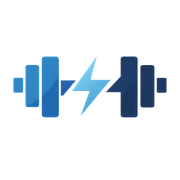
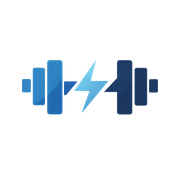
Fix 5 user-reported issues
1. Replace cartoonish body SVG with anatomical figure in MuscleMap
   - Better proportions, muscle definition lines, subtle shading
2. Fix whey protein double-counting: remove supplement auto-add from
   sumMealsProp (whey already exists as a meal in the daily plan)
3. Remove Nutrición section from Hoy tab (redundant with Comidas tab)
4. Enlarge PWA icons: logo now fills ~78% of canvas (was ~50%)
5. Fix greeting card: now a proper rounded card with mx-5 margins and
   marginBottom spacing, no longer edge-to-edge background bleeding

Changed region(s): [[0.0556, 0.3056, 0.9444, 0.6667], [0.4722, 0.5833, 0.5, 0.6111], [0.4444, 0.6111, 0.4722, 0.6389]]

diff --git a/index.html b/index.html
@@ -930,14 +930,6 @@ function formatWeight(val, unit) {
 function sumMealsProp(meals, prop) {
   let total = 0;
   meals.forEach(m => { if (m.confirmed) m.items.forEach(i => { total += (i[prop] || 0); }); });
-  // Add whey supplement if taken today
-  const date = new Date().toISOString().slice(0, 10);
-  try {
-    if (localStorage.getItem('ds_whey_' + date) === 'true') {
-      if (prop === 'protein') total += 27;
-      if (prop === 'cal') total += 130;
-    }
-  } catch {}
   return total;
 }
 
@@ -3433,69 +3425,106 @@ function MuscleMap() {
       <${SectionHeader} title=${t("Músculos esta semana")} />
       <div className="flex gap-4" style=${{ alignItems: 'flex-start' }}>
         <!-- SVG Body -->
-        <div className="flex-shrink-0 flex justify-center" style=${{ width: 130 }}>
-          <svg width="130" height="220" viewBox="0 0 200 340" fill="none">
-            <!-- Base body silhouette -->
-            <g fill=${bodyFill} stroke="none">
-              <ellipse cx="100" cy="30" rx="18" ry="22"/>
-              <rect x="91" y="50" width="18" height="14" rx="4"/>
-              <path d="M70,64 Q60,66 56,72 L50,80 Q46,86 46,96 L46,120 Q46,130 48,140 L50,158 Q52,168 56,174 L62,180 Q66,184 70,186 L72,188 Q80,192 88,194 L100,196 L112,194 Q120,192 128,188 L130,186 Q134,184 138,180 L144,174 Q148,168 150,158 L152,140 Q154,130 154,120 L154,96 Q154,86 150,80 L144,72 Q140,66 130,64 Z"/>
-              <path d="M56,72 Q48,74 44,80 L38,96 Q34,106 32,116 L30,130 Q30,134 32,136 L38,138 Q42,138 44,134 L46,120 L46,96 Z"/>
-              <path d="M32,136 Q30,142 28,152 L26,166 Q24,176 24,184 L22,196 Q22,200 24,202 L28,204 Q32,204 34,200 L36,188 Q38,178 38,168 L38,152 L38,138 Z"/>
-              <path d="M24,202 Q22,208 20,214 Q18,220 20,222 Q22,224 26,222 L30,216 Q32,210 34,204 Z"/>
-              <path d="M144,72 Q152,74 156,80 L162,96 Q166,106 168,116 L170,130 Q170,134 168,136 L162,138 Q158,138 156,134 L154,120 L154,96 Z"/>
-              <path d="M168,136 Q170,142 172,152 L174,166 Q176,176 176,184 L178,196 Q178,200 176,202 L172,204 Q168,204 166,200 L164,188 Q162,178 162,168 L162,152 L162,138 Z"/>
-              <path d="M176,202 Q178,208 180,214 Q182,220 180,222 Q178,224 174,222 L170,216 Q168,210 166,204 Z"/>
-              <path d="M72,188 Q68,192 66,198 L62,218 Q60,232 58,246 L56,262 Q56,268 60,270 L68,272 Q76,272 80,268 L84,252 Q88,236 90,220 L92,200 Q92,196 90,194 Z"/>
-              <path d="M128,188 Q132,192 134,198 L138,218 Q140,232 142,246 L144,262 Q144,268 140,270 L132,272 Q124,272 120,268 L116,252 Q112,236 110,220 L108,200 Q108,196 110,194 Z"/>
-              <path d="M60,270 Q58,278 56,290 L54,306 Q54,316 56,324 L58,330 Q60,334 64,334 L72,334 Q76,334 76,330 L76,318 Q76,308 74,296 L72,282 Q70,274 68,270 Z"/>
-              <path d="M58,330 Q54,334 50,336 Q46,338 46,336 L48,332 Q52,330 58,330 Z M64,334 L72,334 Q76,338 72,340 L60,340 Q56,338 60,336 Z"/>
-              <path d="M140,270 Q142,278 144,290 L146,306 Q146,316 144,324 L142,330 Q140,334 136,334 L128,334 Q124,334 124,330 L124,318 Q124,308 126,296 L128,282 Q130,274 132,270 Z"/>
-              <path d="M142,330 Q146,334 150,336 Q154,338 154,336 L152,332 Q148,330 142,330 Z M136,334 L128,334 Q124,338 128,340 L140,340 Q144,338 140,336 Z"/>
+        <div className="flex-shrink-0 flex justify-center" style=${{ width: 120 }}>
+          <svg width="120" height="260" viewBox="0 0 120 260" fill="none">
+            <defs>
+              <linearGradient id="bodyGrad" x1="60" y1="0" x2="60" y2="260" gradientUnits="userSpaceOnUse">
+                <stop offset="0%" stop-color=${bodyFill} />
+                <stop offset="100%" stop-color=${bodyFill} />
+              </linearGradient>
+              <linearGradient id="bodyShade" x1="40" y1="0" x2="80" y2="260" gradientUnits="userSpaceOnUse">
+                <stop offset="0%" stop-color="#000" stop-opacity="0.04"/>
+                <stop offset="50%" stop-color="#000" stop-opacity="0.08"/>
+                <stop offset="100%" stop-color="#000" stop-opacity="0.03"/>
+              </linearGradient>
+            </defs>
+            <!-- Anatomical body silhouette -->
+            <g fill="url(#bodyGrad)" stroke="none">
+              <!-- Head -->
+              <ellipse cx="60" cy="16" rx="11" ry="14"/>
+              <!-- Neck -->
+              <path d="M54,29 C54,32 53,35 52,37 L68,37 C67,35 66,32 66,29 Z"/>
+              <!-- Torso -->
+              <path d="M40,39 C35,40 30,44 28,50 L25,60 C23,68 23,78 24,88 L25,98 C26,108 28,115 30,120 L34,130 C36,135 38,138 42,142 L46,146 C48,148 52,152 55,154 L60,156 L65,154 C68,152 72,148 74,146 L78,142 C82,138 84,135 86,130 L90,120 C92,115 94,108 95,98 L96,88 C97,78 97,68 95,60 L92,50 C90,44 85,40 80,39 Z"/>
+              <!-- Left shoulder+arm -->
+              <path d="M40,39 C34,40 28,44 24,50 L19,60 C16,68 15,75 16,82 L18,92 C19,98 21,102 22,104 L24,102 C24,96 25,88 26,80 L28,68 C29,62 32,55 36,48 Z"/>
+              <path d="M16,82 C14,88 13,96 13,104 L14,116 C14,122 15,126 16,128 L19,128 C20,124 20,118 20,110 L19,96 C18,90 17,86 16,82 Z"/>
+              <path d="M16,128 C15,134 14,140 14,146 L14,156 C14,160 15,162 17,163 L19,162 C19,158 19,152 19,144 L19,136 C19,132 19,130 19,128 Z"/>
+              <!-- Left hand -->
+              <path d="M14,156 C13,160 12,164 12,167 C12,170 13,171 15,171 L18,170 C19,168 19,165 19,162 Z"/>
+              <!-- Right shoulder+arm -->
+              <path d="M80,39 C86,40 92,44 96,50 L101,60 C104,68 105,75 104,82 L102,92 C101,98 99,102 98,104 L96,102 C96,96 95,88 94,80 L92,68 C91,62 88,55 84,48 Z"/>
+              <path d="M104,82 C106,88 107,96 107,104 L106,116 C106,122 105,126 104,128 L101,128 C100,124 100,118 100,110 L101,96 C102,90 103,86 104,82 Z"/>
+              <path d="M104,128 C105,134 106,140 106,146 L106,156 C106,160 105,162 103,163 L101,162 C101,158 101,152 101,144 L101,136 C101,132 101,130 101,128 Z"/>
+              <!-- Right hand -->
+              <path d="M106,156 C107,160 108,164 108,167 C108,170 107,171 105,171 L102,170 C101,168 101,165 101,162 Z"/>
+              <!-- Left leg -->
+              <path d="M46,146 C44,150 42,156 40,164 L38,176 C36,188 35,198 34,208 L33,218 C33,224 34,228 35,232 L37,234 C39,232 41,228 42,222 L44,210 C46,198 48,188 50,180 L52,172 C54,166 56,162 58,158 Z"/>
+              <!-- Left calf+foot -->
+              <path d="M35,232 C34,238 33,244 33,248 L34,252 C34,254 35,256 37,256 L44,256 C46,256 47,255 47,253 L47,250 C46,246 44,240 42,234 Z"/>
+              <!-- Right leg -->
+              <path d="M74,146 C76,150 78,156 80,164 L82,176 C84,188 85,198 86,208 L87,218 C87,224 86,228 85,232 L83,234 C81,232 79,228 78,222 L76,210 C74,198 72,188 70,180 L68,172 C66,166 64,162 62,158 Z"/>
+              <!-- Right calf+foot -->
+              <path d="M85,232 C86,238 87,244 87,248 L86,252 C86,254 85,256 83,256 L76,256 C74,256 73,255 73,253 L73,250 C74,246 76,240 78,234 Z"/>
             </g>
-            <!-- Muscle overlays -->
+            <!-- Subtle shading overlay -->
+            <g fill="url(#bodyShade)">
+              <ellipse cx="60" cy="16" rx="11" ry="14"/>
+              <path d="M40,39 C35,40 30,44 28,50 L25,60 C23,68 23,78 24,88 L25,98 C26,108 28,115 30,120 L34,130 C36,135 38,138 42,142 L46,146 C48,148 52,152 55,154 L60,156 L65,154 C68,152 72,148 74,146 L78,142 C82,138 84,135 86,130 L90,120 C92,115 94,108 95,98 L96,88 C97,78 97,68 95,60 L92,50 C90,44 85,40 80,39 Z"/>
+            </g>
+            <!-- Muscle definition lines -->
+            <g fill="none" stroke=${T.border} stroke-width="0.5" opacity="0.5">
+              <path d="M60,37 L60,68"/>
+              <path d="M48,60 C52,66 56,68 60,68 C64,68 68,66 72,60"/>
+              <path d="M50,75 C54,80 56,82 60,82 C64,82 66,80 70,75"/>
+              <line x1="60" y1="82" x2="60" y2="154"/>
+              <path d="M46,100 C50,104 55,106 60,106 C65,106 70,104 74,100"/>
+              <path d="M48,115 C52,118 56,120 60,120 C64,120 68,118 72,115"/>
+            </g>
+            <!-- MUSCLE OVERLAYS -->
             <g fill=${accentFill} style=${{ transition: 'opacity 0.5s ease' }} opacity=${getOpacity('pecho')}>
-              <path d="M72,76 Q68,78 66,82 L64,90 Q62,96 64,100 L72,104 Q82,108 92,106 L98,102 L98,82 Q98,76 92,74 Z"/>
-              <path d="M128,76 Q132,78 134,82 L136,90 Q138,96 136,100 L128,104 Q118,108 108,106 L102,102 L102,82 Q102,76 108,74 Z"/>
+              <path d="M42,52 C40,56 40,62 42,66 C46,72 54,74 60,72 L60,52 C54,50 48,50 42,52 Z"/>
+              <path d="M78,52 C80,56 80,62 78,66 C74,72 66,74 60,72 L60,52 C66,50 72,50 78,52 Z"/>
             </g>
             <g fill=${accentFill} style=${{ transition: 'opacity 0.5s ease' }} opacity=${getOpacity('hombros')}>
-              <path d="M70,64 Q60,66 54,72 L48,82 Q46,88 48,90 L54,88 Q58,82 62,78 L68,74 Q72,72 72,70 Z"/>
-              <path d="M130,64 Q140,66 146,72 L152,82 Q154,88 152,90 L146,88 Q142,82 138,78 L132,74 Q128,72 128,70 Z"/>
+              <path d="M40,39 C34,40 28,44 24,50 L22,56 C24,54 28,50 34,46 C38,43 40,41 42,40 Z"/>
+              <path d="M80,39 C86,40 92,44 96,50 L98,56 C96,54 92,50 86,46 C82,43 80,41 78,40 Z"/>
             </g>
             <g fill=${accentFill} style=${{ transition: 'opacity 0.5s ease' }} opacity=${getOpacity('biceps')}>
-              <path d="M46,96 Q42,100 40,108 L38,118 Q36,126 38,130 L42,132 Q46,132 46,126 L46,112 L48,100 Z"/>
-              <path d="M154,96 Q158,100 160,108 L162,118 Q164,126 162,130 L158,132 Q154,132 154,126 L154,112 L152,100 Z"/>
+              <path d="M24,62 C22,68 20,76 18,84 L16,82 C16,76 17,68 20,60 C22,56 24,54 26,56 Z"/>
+              <path d="M96,62 C98,68 100,76 102,84 L104,82 C104,76 103,68 100,60 C98,56 96,54 94,56 Z"/>
             </g>
             <g fill=${accentFill} style=${{ transition: 'opacity 0.5s ease' }} opacity=${getOpacity('triceps')}>
-              <path d="M38,96 Q34,104 32,114 L30,126 Q30,132 32,134 L36,132 Q38,128 38,122 L38,108 Z"/>
-              <path d="M162,96 Q166,104 168,114 L170,126 Q170,132 168,134 L164,132 Q162,128 162,122 L162,108 Z"/>
+              <path d="M18,84 C17,90 16,96 15,104 L14,112 C14,118 15,122 16,124 L19,124 C19,118 19,110 19,102 L20,92 Z"/>
+              <path d="M102,84 C103,90 104,96 105,104 L106,112 C106,118 105,122 104,124 L101,124 C101,118 101,110 101,102 L100,92 Z"/>
             </g>
             <g fill=${accentFill} style=${{ transition: 'opacity 0.5s ease' }} opacity=${getOpacity('espalda')}>
-              <path d="M56,88 Q50,94 48,102 L48,118 Q48,128 50,136 L54,144 Q58,148 62,146 L66,138 Q68,130 68,120 L68,106 Q66,96 62,90 Z"/>
-              <path d="M144,88 Q150,94 152,102 L152,118 Q152,128 150,136 L146,144 Q142,148 138,146 L134,138 Q132,130 132,120 L132,106 Q134,96 138,90 Z"/>
+              <path d="M30,56 C28,64 26,72 26,80 L28,88 C32,84 36,78 38,72 L40,64 C40,60 38,56 34,54 Z"/>
+              <path d="M90,56 C92,64 94,72 94,80 L92,88 C88,84 84,78 82,72 L80,64 C80,60 82,56 86,54 Z"/>
             </g>
             <g fill=${accentFill} style=${{ transition: 'opacity 0.5s ease' }} opacity=${getOpacity('posterior')}>
-              <path d="M76,64 Q72,66 70,70 L68,78 Q66,84 68,86 L76,84 Q82,80 86,76 L90,72 Q92,68 88,66 Z"/>
-              <path d="M124,64 Q128,66 130,70 L132,78 Q134,84 132,86 L124,84 Q118,80 114,76 L110,72 Q108,68 112,66 Z"/>
+              <path d="M42,40 C40,42 38,44 36,46 L32,50 C36,46 42,42 48,40 Z"/>
+              <path d="M78,40 C80,42 82,44 84,46 L88,50 C84,46 78,42 72,40 Z"/>
             </g>
             <g fill=${accentFill} style=${{ transition: 'opacity 0.5s ease' }} opacity=${getOpacity('core')}>
-              <path d="M82,106 Q78,108 76,114 L74,128 Q72,142 74,156 L76,168 Q78,176 82,182 L88,188 Q94,192 100,194 Q106,192 112,188 L118,182 Q122,176 124,168 L126,156 Q128,142 126,128 L124,114 Q122,108 118,106 L108,104 Q104,104 100,104 Q96,104 92,104 Z"/>
+              <path d="M48,82 C50,86 54,90 60,90 C66,90 70,86 72,82 L74,100 C72,108 68,114 60,114 C52,114 48,108 46,100 Z"/>
+              <path d="M46,100 C44,108 42,118 42,128 L44,138 C48,144 54,148 60,150 C66,148 72,144 76,138 L78,128 C78,118 76,108 74,100 C70,108 66,114 60,114 C54,114 50,108 46,100 Z"/>
             </g>
             <g fill=${accentFill} style=${{ transition: 'opacity 0.5s ease' }} opacity=${getOpacity('gluteos')}>
-              <path d="M72,182 Q66,186 64,192 L62,200 Q62,206 66,208 L76,208 Q84,206 88,200 L92,194 Q90,190 86,188 L78,184 Z"/>
-              <path d="M128,182 Q134,186 136,192 L138,200 Q138,206 134,208 L124,208 Q116,206 112,200 L108,194 Q110,190 114,188 L122,184 Z"/>
+              <path d="M44,142 C42,146 40,152 40,156 C42,158 46,160 50,160 L55,158 C56,154 54,148 52,144 Z"/>
+              <path d="M76,142 C78,146 80,152 80,156 C78,158 74,160 70,160 L65,158 C64,154 66,148 68,144 Z"/>
             </g>
             <g fill=${accentFill} style=${{ transition: 'opacity 0.5s ease' }} opacity=${getOpacity('cuadriceps')}>
-              <path d="M76,208 Q72,212 68,222 L64,238 Q62,250 60,260 Q60,266 64,268 L74,268 Q80,266 82,260 L86,244 Q88,232 88,220 L88,210 Q86,206 82,206 Z"/>
-              <path d="M124,208 Q128,212 132,222 L136,238 Q138,250 140,260 Q140,266 136,268 L126,268 Q120,266 118,260 L114,244 Q112,232 112,220 L112,210 Q114,206 118,206 Z"/>
+              <path d="M42,156 C40,164 38,174 36,186 L35,200 C35,208 36,214 38,218 L42,218 C44,212 46,204 48,194 L50,182 C52,172 54,164 56,158 Z"/>
+              <path d="M78,156 C80,164 82,174 84,186 L85,200 C85,208 84,214 82,218 L78,218 C76,212 74,204 72,194 L70,182 C68,172 66,164 64,158 Z"/>
             </g>
             <g fill=${accentFill} style=${{ transition: 'opacity 0.5s ease' }} opacity=${getOpacity('isquiotibiales')}>
-              <path d="M88,210 Q90,216 92,226 L92,242 Q92,254 88,264 Q86,268 82,268 L82,260 Q84,250 86,238 L88,222 Z"/>
-              <path d="M112,210 Q110,216 108,226 L108,242 Q108,254 112,264 Q114,268 118,268 L118,260 Q116,250 114,238 L112,222 Z"/>
+              <path d="M50,170 C52,178 54,186 54,194 L52,206 C50,214 48,218 46,220 L42,218 C42,214 44,206 46,196 L48,184 Z"/>
+              <path d="M70,170 C68,178 66,186 66,194 L68,206 C70,214 72,218 74,220 L78,218 C78,214 76,206 74,196 L72,184 Z"/>
             </g>
             <g fill=${accentFill} style=${{ transition: 'opacity 0.5s ease' }} opacity=${getOpacity('pantorrillas')}>
-              <path d="M60,274 Q58,280 56,290 L54,304 Q54,314 56,320 L60,326 Q64,328 68,326 L72,318 Q74,310 74,300 L72,288 Q70,278 68,274 Z"/>
-              <path d="M140,274 Q142,280 144,290 L146,304 Q146,314 144,320 L140,326 Q136,328 132,326 L128,318 Q126,310 126,300 L128,288 Q130,278 132,274 Z"/>
+              <path d="M36,230 C35,236 34,242 34,248 L35,252 C36,254 38,255 40,254 L42,250 C43,244 42,238 40,232 Z"/>
+              <path d="M84,230 C85,236 86,242 86,248 L85,252 C84,254 82,255 80,254 L78,250 C77,244 78,238 80,232 Z"/>
             </g>
           </svg>
         </div>
@@ -6306,30 +6335,30 @@ function TodayTab({ meals, onMealConfirm, onMealEdit, onAddMeal, waterMl, onAddW
 
   return html`
     <div className="stagger">
-      <div className="px-5 pt-3 fade-up" style=${{ paddingBottom: 14, background: timeGradient, borderRadius: '0 0 24px 24px' }}>
+      <div className="mx-5 fade-up" style=${{ paddingTop: 16, paddingBottom: 18, paddingLeft: 20, paddingRight: 20, background: timeGradient, borderRadius: 20, marginBottom: 12 }}>
         <div className="flex items-center justify-between">
           <div className="flex items-center gap-2">
             <${ThemeToggle} dark=${dark} onToggle=${onThemeToggle} />
             <${LangToggle} onToggle=${onLangToggle} />
-            <button onClick=${onOpenPerfil} className="flex items-center justify-center press-scale" style=${{ width: 32, height: 32, borderRadius: 8, background: T.input }}>
-              <${GearSix} size=${16} weight="bold" color=${T.muted} />
+            <button onClick=${onOpenPerfil} className="flex items-center justify-center press-scale" style=${{ width: 36, height: 36, borderRadius: 10, background: T.input }}>
+              <${GearSix} size=${18} weight="bold" color=${T.muted} />
             </button>
           </div>
-          <div className="flex items-center gap-1.5 px-2.5 py-1 rounded-full pop-in" style=${{ background: T.amberDim, animationDelay: '0.3s' }}>
-            <${FireSimple} size=${12} weight="fill" color=${T.amber} />
-            <span style=${{ fontFamily: 'Outfit, sans-serif', fontSize: 12, fontWeight: 800, color: T.amber }}>${LANG === 'en' ? 'Day' : 'Día'} ${streak}</span>
+          <div className="flex items-center gap-1.5 px-3 py-1.5 rounded-full pop-in" style=${{ background: T.amberDim, animationDelay: '0.3s' }}>
+            <${FireSimple} size=${14} weight="fill" color=${T.amber} />
+            <span style=${{ fontFamily: 'Outfit, sans-serif', fontSize: 13, fontWeight: 800, color: T.amber }}>${LANG === 'en' ? 'Day' : 'Día'} ${streak}</span>
           </div>
         </div>
-        <div style=${{ marginTop: 8 }}>
-          <div style=${{ fontSize: 12, fontWeight: 500, color: T.sub, marginBottom: 1 }}>
+        <div style=${{ marginTop: 12 }}>
+          <div style=${{ fontSize: 14, fontWeight: 500, color: T.sub, marginBottom: 2 }}>
             ${new Date().toLocaleDateString(LANG === 'en' ? 'en' : 'es', { weekday: 'long', day: 'numeric', month: 'long' })}
           </div>
-          <div style=${{ fontFamily: 'Outfit, sans-serif', fontSize: 22, fontWeight: 900, color: T.text, letterSpacing: '-0.5px', lineHeight: 1.15 }}>
+          <div style=${{ fontFamily: 'Outfit, sans-serif', fontSize: 28, fontWeight: 900, color: T.text, letterSpacing: '-1px', lineHeight: 1.1 }}>
             ${t(getGreeting())}, ${profileName}
           </div>
         </div>
-        <div className="flex items-center justify-between" style=${{ marginTop: 8 }}>
-          <div className="inline-flex items-center slide-in-right" style=${{ background: T.accentDim, color: T.accent, fontSize: 11, fontWeight: 700, borderRadius: 16, padding: '4px 12px' }}>
+        <div className="flex items-center justify-between" style=${{ marginTop: 12 }}>
+          <div className="inline-flex items-center slide-in-right" style=${{ background: T.accentDim, color: T.accent, fontSize: 12, fontWeight: 700, borderRadius: 20, padding: '6px 14px' }}>
             ${todayDayLabel} \u00B7 ${t(routine.name)}
           </div>
           <${WeekStrip} />
@@ -6366,13 +6395,6 @@ function TodayTab({ meals, onMealConfirm, onMealEdit, onAddMeal, waterMl, onAddW
         <//>
       </div>
 
-      <div className="px-5">
-        <${CollapsibleSection} title=${LANG === 'en' ? 'Nutrition' : 'Nutrición'} icon=${html`<div style=${{ width: 36, height: 36, borderRadius: 10, background: 'rgba(234,88,12,0.12)', display: 'flex', alignItems: 'center', justifyContent: 'center' }}><${ForkKnife} size=${20} weight="duotone" color="#ea580c" /></div>`} defaultOpen=${false}
-          summary=${meals.filter(m => m.confirmed).length + (LANG === 'en' ? ' of ' : ' de ') + meals.length + ' ' + t('comidas')}
-          badge=${{ text: meals.filter(m => m.confirmed).length + '/' + meals.length, bg: meals.every(m => m.confirmed) ? T.greenDim : T.accentDim, color: meals.every(m => m.confirmed) ? T.green : T.accent }}>
-          <${MealsTimeline} meals=${meals} onConfirm=${onMealConfirm} onEdit=${onMealEdit} onAddMeal=${onAddMeal} />
-        <//>
-      </div>
 
       <div className="px-5">
         <div className="flex items-center gap-2 mb-3" style=${{ paddingLeft: 4 }}>
